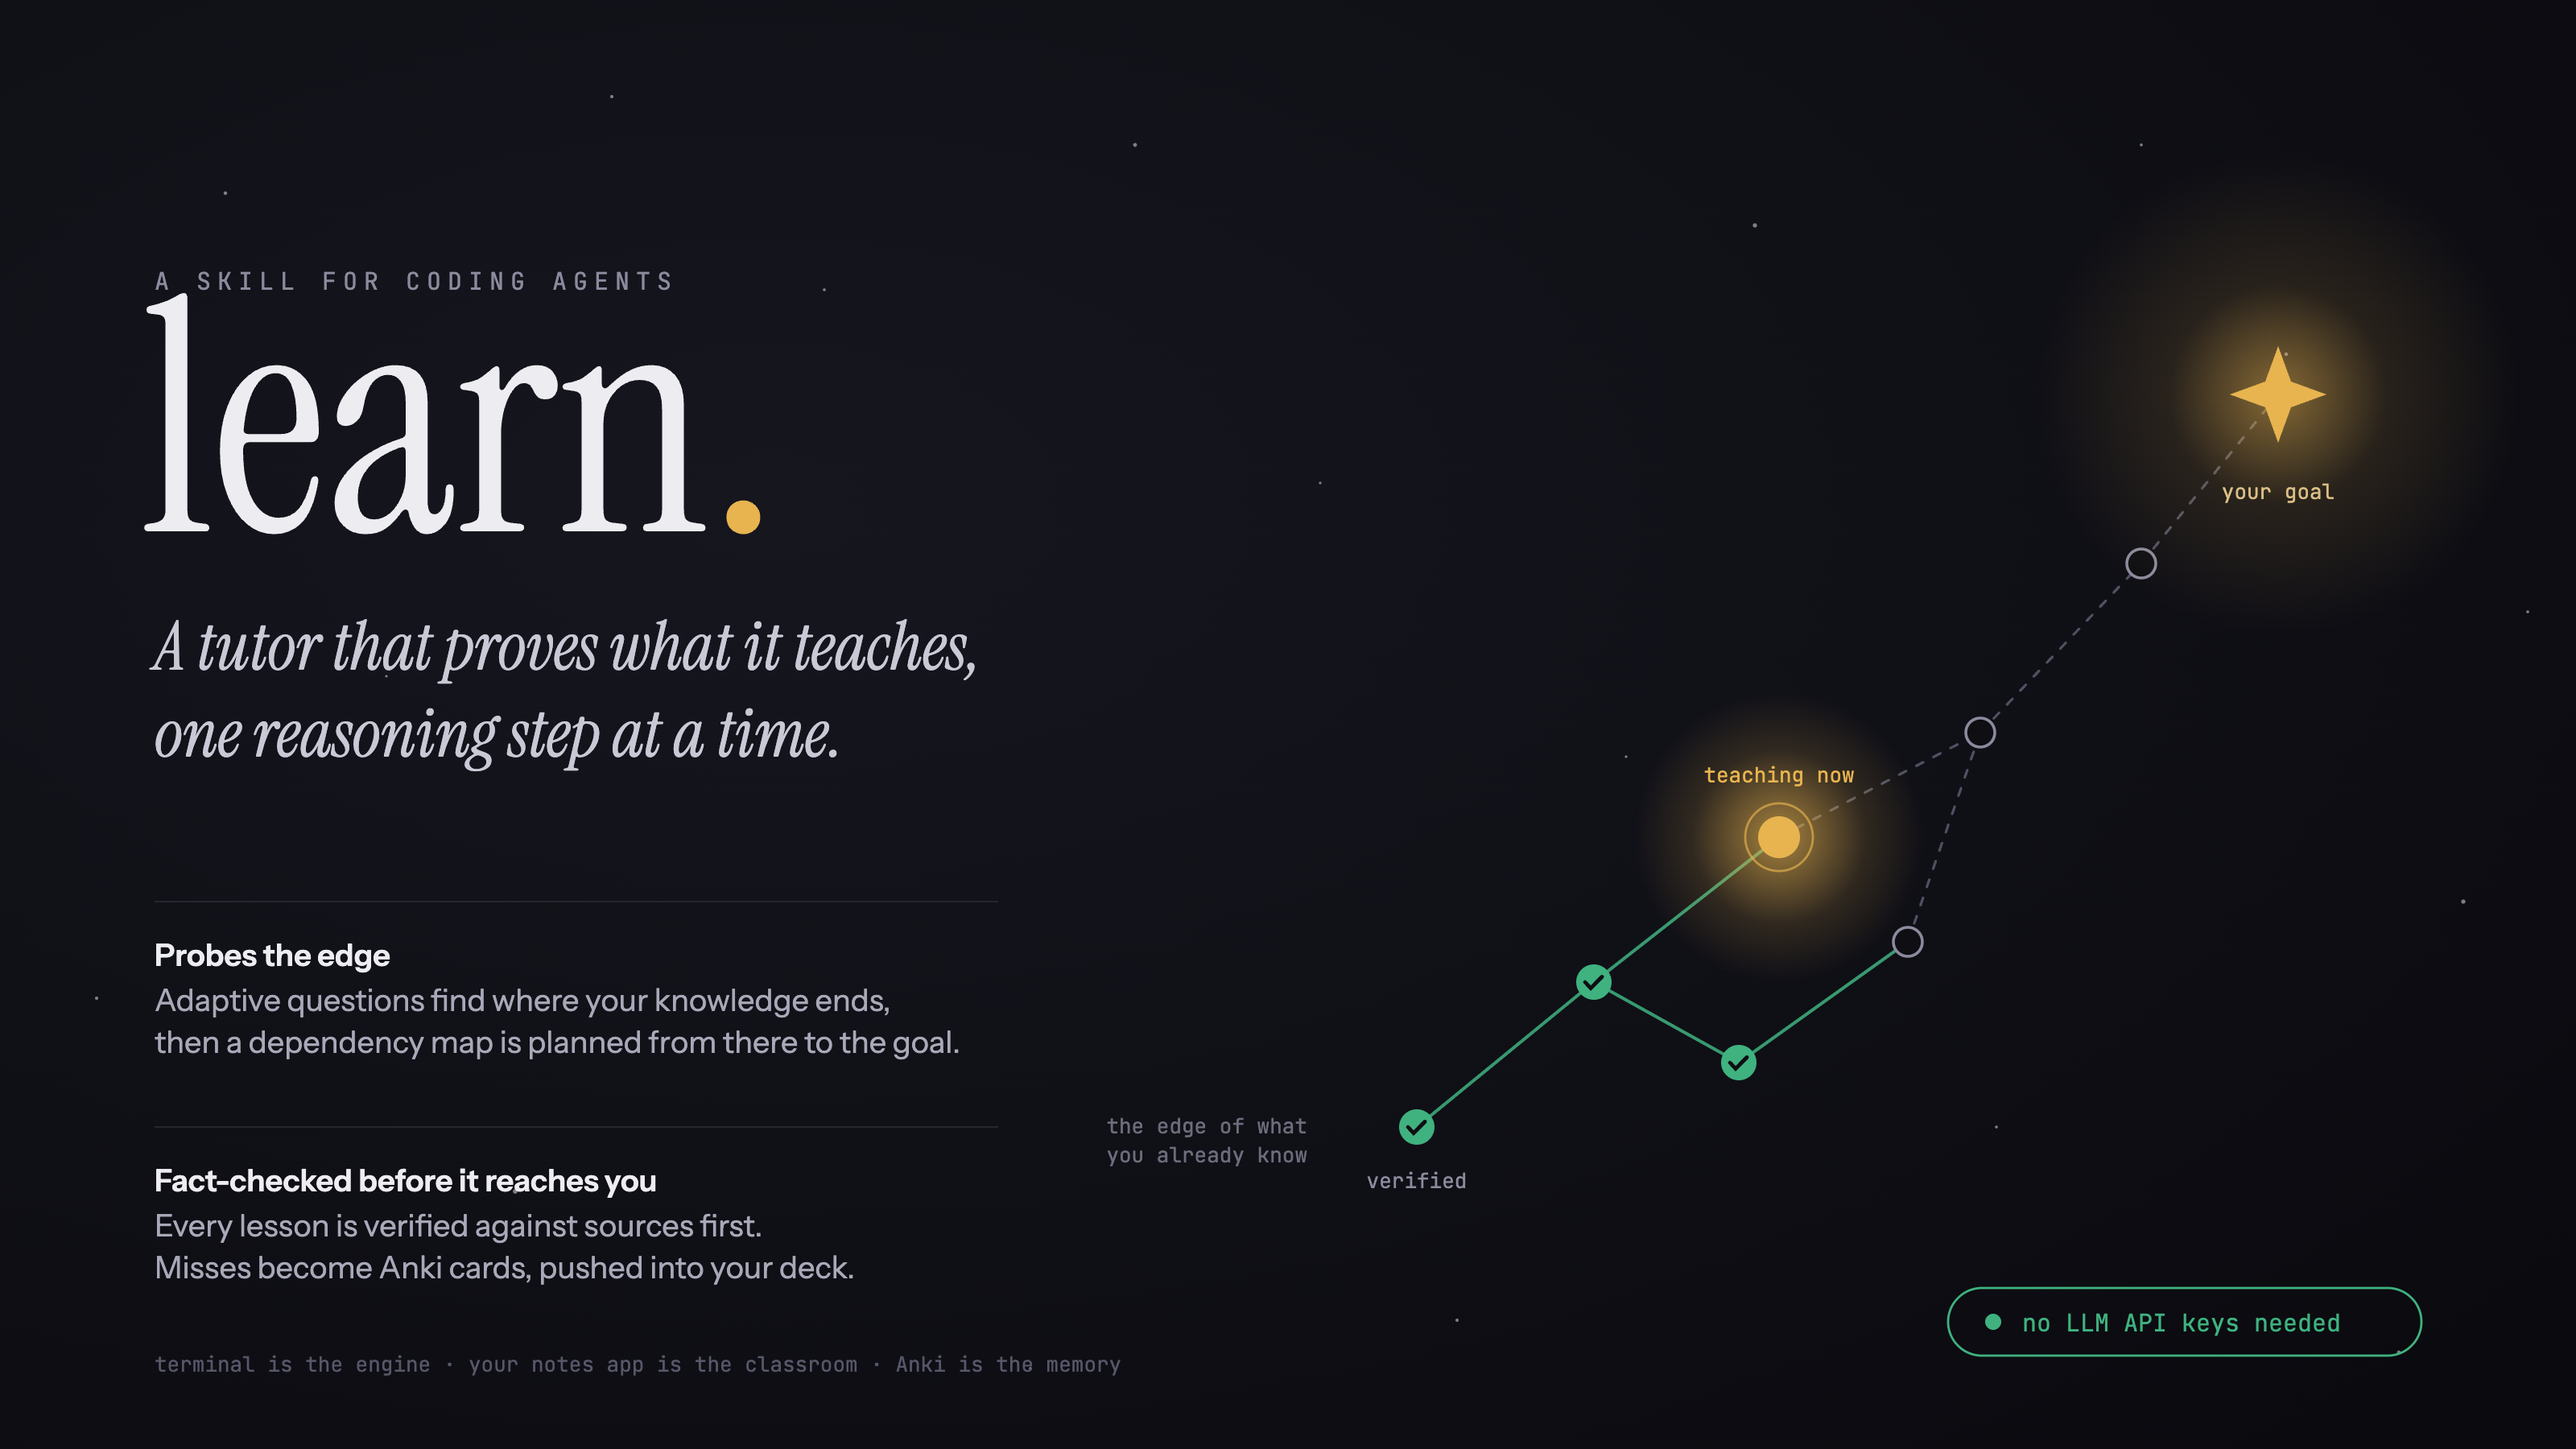
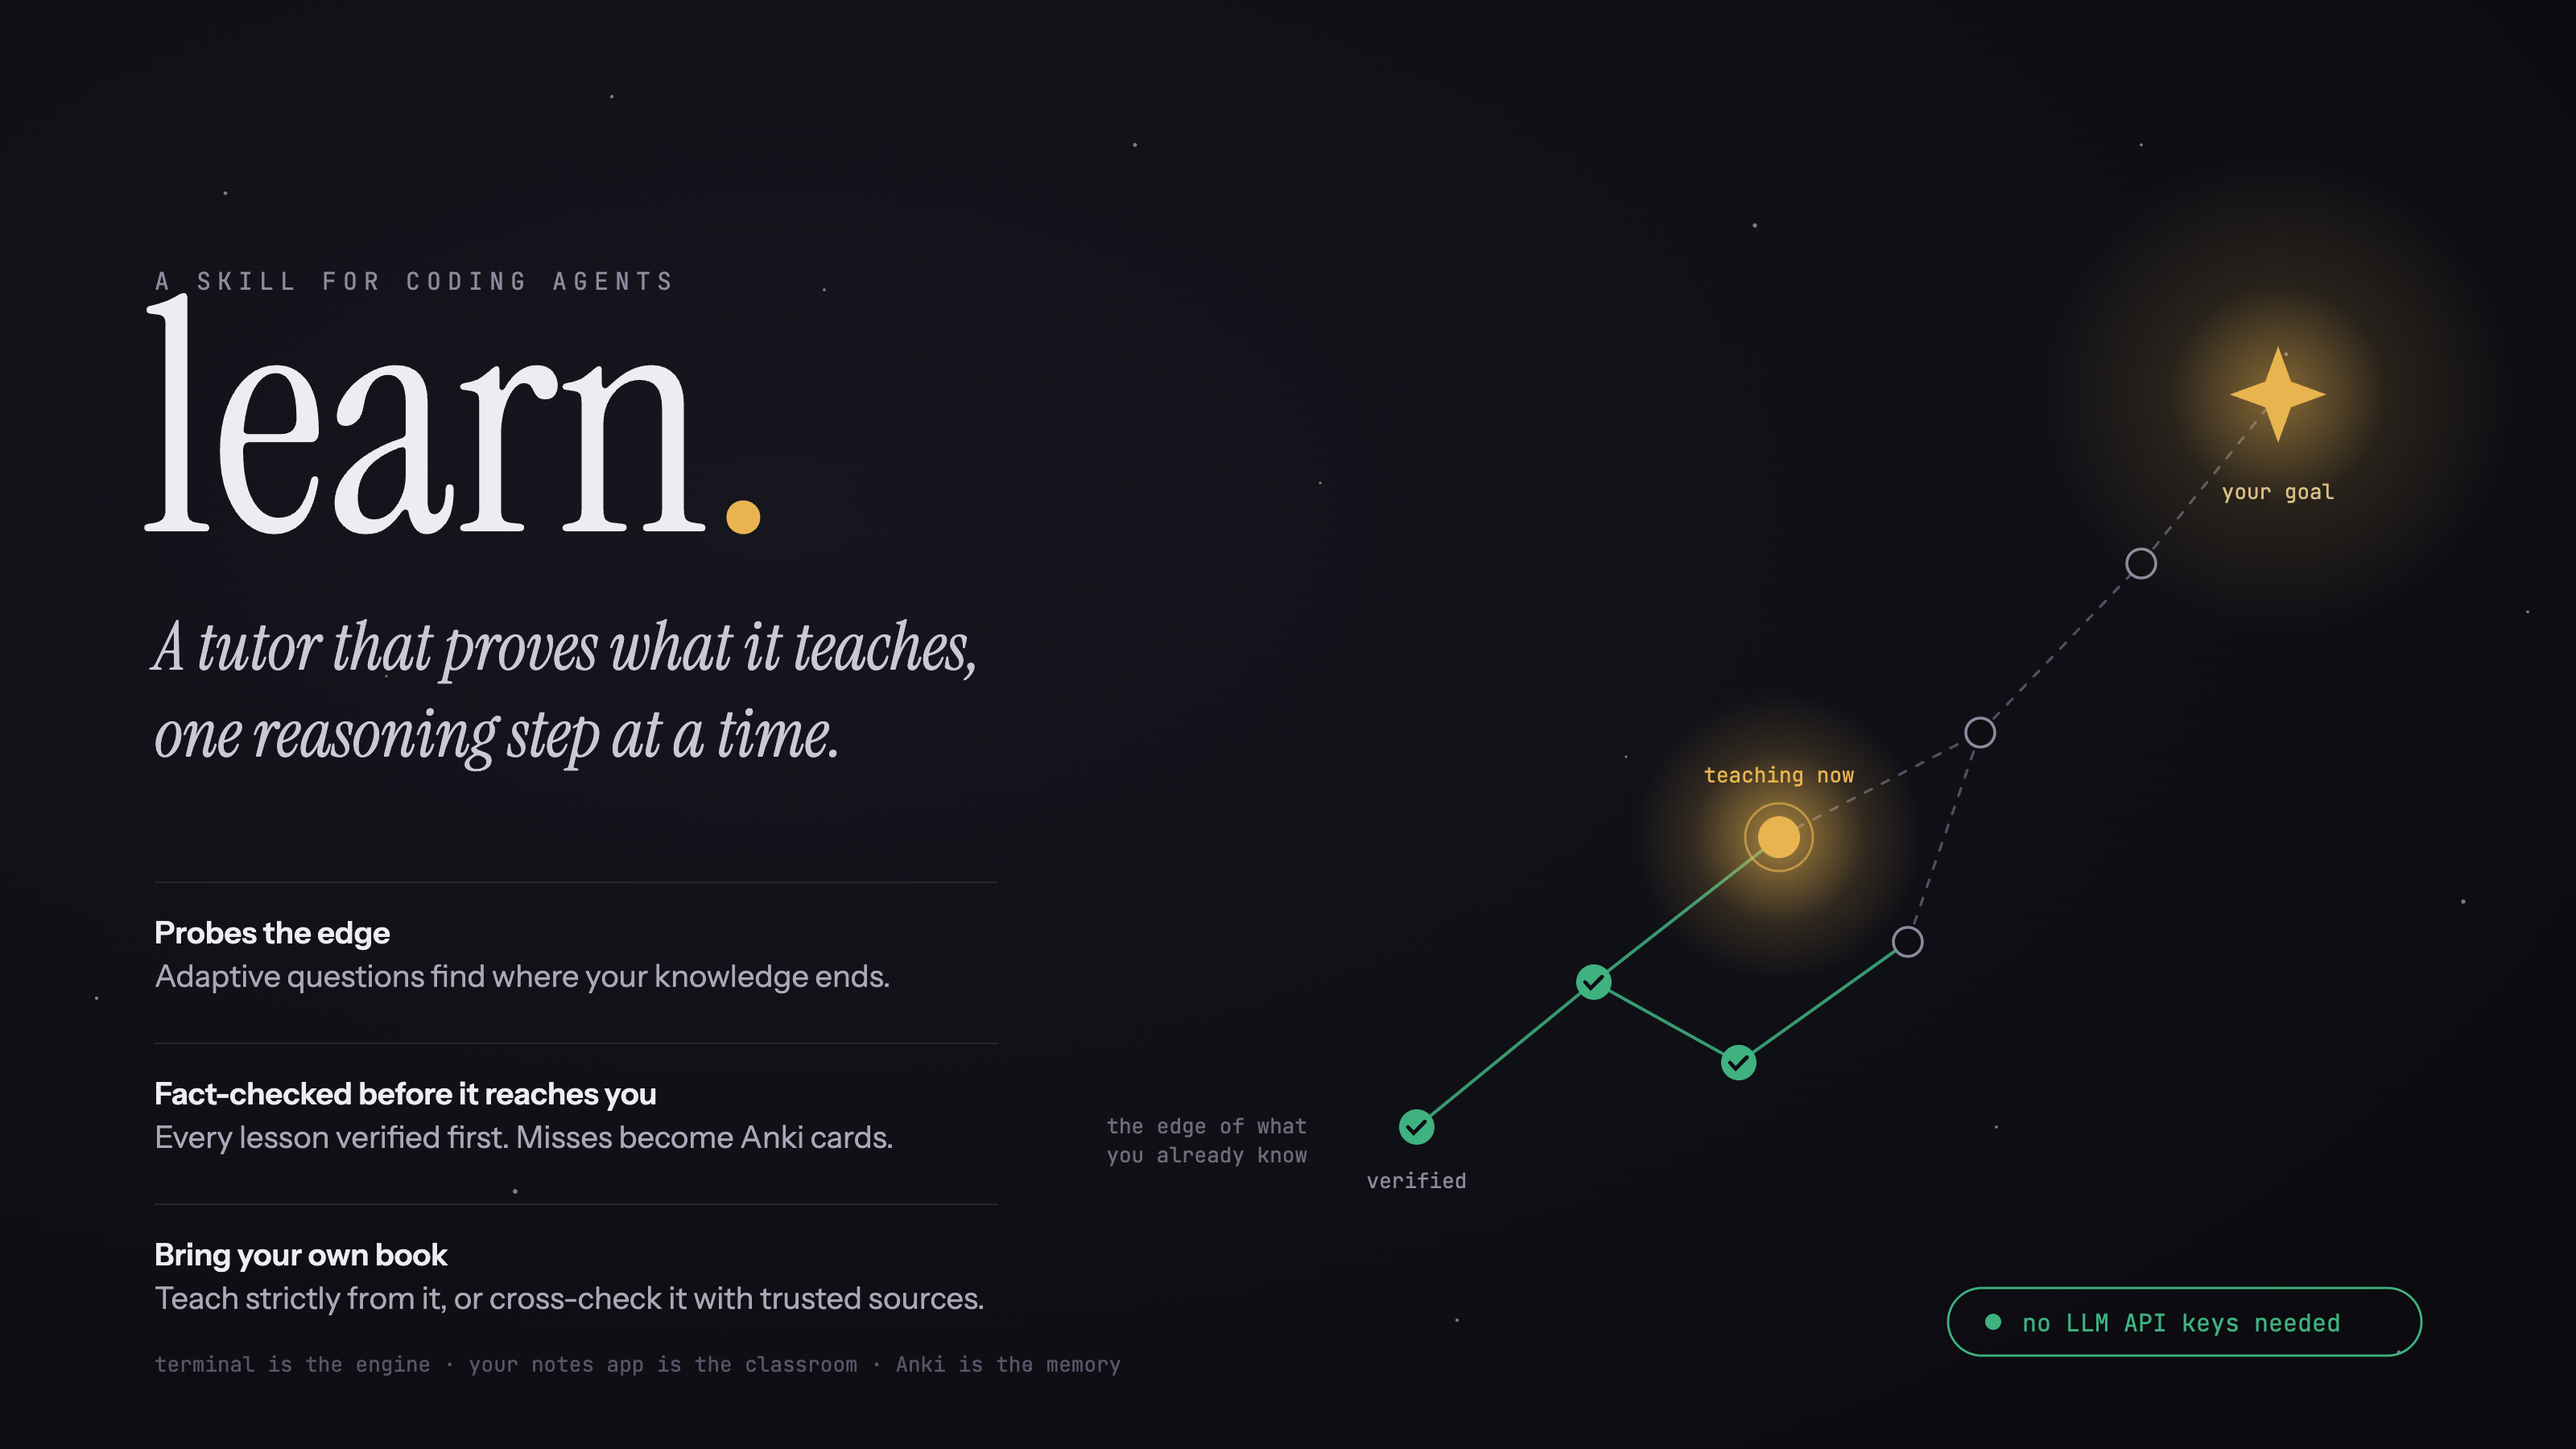
docs(assets): show base-material source modes in cover and diagram

Changed region(s): [[0.0625, 0.6222, 0.375, 0.9022]]

diff --git a/assets/learn-render.html b/assets/learn-render.html
@@ -115,16 +115,19 @@
   <!-- feature ledger -->
   <g font-family="'Instrument Sans', sans-serif" font-size="19" fill="#A8A8B8">
     <g>
-      <line x1="96" y1="560" x2="620" y2="560" stroke="#26262F" stroke-width="1"/>
-      <text x="96" y="600" fill="#ECECF1" font-weight="600">Probes the edge</text>
-      <text x="96" y="628">Adaptive questions find where your knowledge ends,</text>
-      <text x="96" y="654">then a dependency map is planned from there to the goal.</text>
+      <line x1="96" y1="548" x2="620" y2="548" stroke="#26262F" stroke-width="1"/>
+      <text x="96" y="586" fill="#ECECF1" font-weight="600">Probes the edge</text>
+      <text x="96" y="613">Adaptive questions find where your knowledge ends.</text>
     </g>
     <g>
-      <line x1="96" y1="700" x2="620" y2="700" stroke="#26262F" stroke-width="1"/>
-      <text x="96" y="740" fill="#ECECF1" font-weight="600">Fact-checked before it reaches you</text>
-      <text x="96" y="768">Every lesson is verified against sources first.</text>
-      <text x="96" y="794">Misses become Anki cards, pushed into your deck.</text>
+      <line x1="96" y1="648" x2="620" y2="648" stroke="#26262F" stroke-width="1"/>
+      <text x="96" y="686" fill="#ECECF1" font-weight="600">Fact-checked before it reaches you</text>
+      <text x="96" y="713">Every lesson verified first. Misses become Anki cards.</text>
+    </g>
+    <g>
+      <line x1="96" y1="748" x2="620" y2="748" stroke="#26262F" stroke-width="1"/>
+      <text x="96" y="786" fill="#ECECF1" font-weight="600">Bring your own book</text>
+      <text x="96" y="813">Teach strictly from it, or cross-check it with trusted sources.</text>
     </g>
   </g>
 
